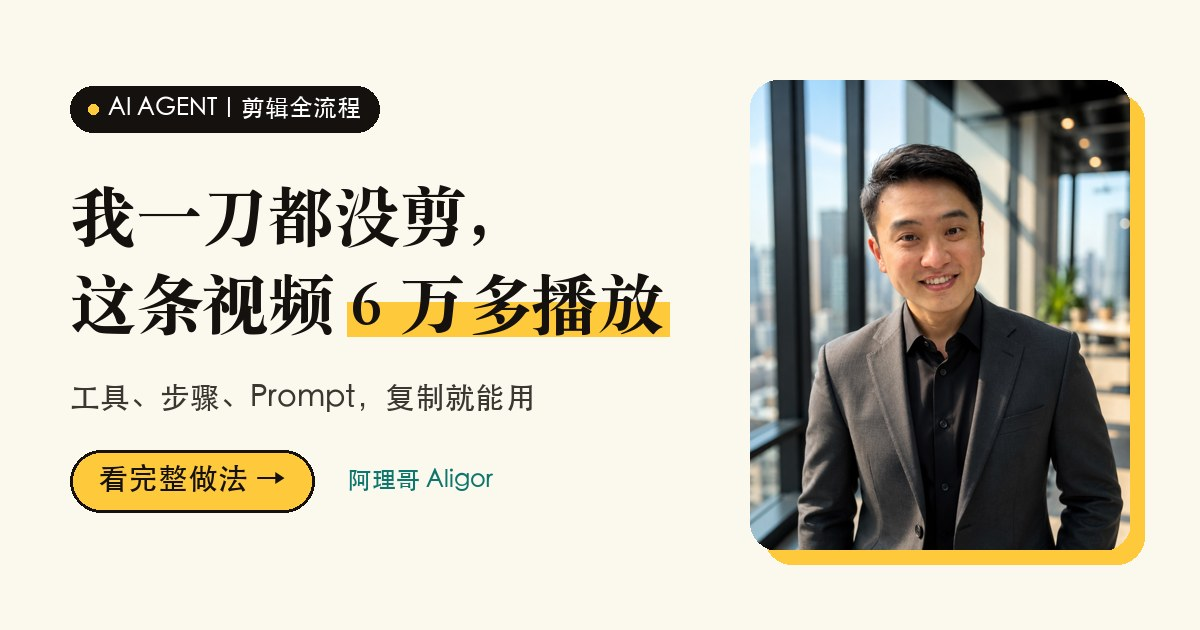
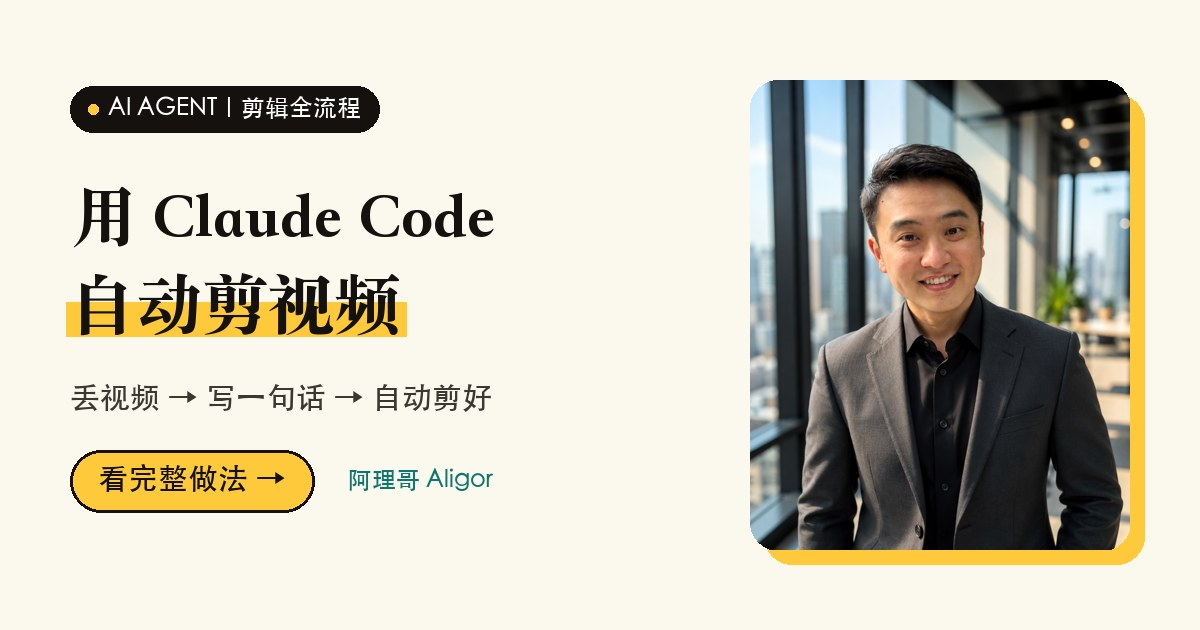
/claude-videoedit/: motion demo, 3-step flow, Claude Pro note
- Header: animated Claude Code demo (drop video, type one line, auto edit) replaces the view-count headline and stats
- Between 01 and 02: left-to-right animated flow (skills, API key, wait 20 min) with a "fix and redo" loop
- Setup step 1 notes Claude Code needs Claude Pro or higher
- Share card updated to the new headline

Changed region(s): [[0.0308, 0.4222, 0.5858, 0.5429], [0.0617, 0.3016, 0.4317, 0.3921], [0.0617, 0.6032, 0.4625, 0.6635]]

diff --git a/claude-videoedit/index.html b/claude-videoedit/index.html
@@ -71,6 +71,98 @@
   .cta h2 { justify-content: center; color: #fff; }
   .cta a { display: inline-block; margin-top: 12px; background: #fff; color: var(--rose); font-weight: 800; text-decoration: none; padding: 12px 22px; border-radius: 999px; }
   footer { margin-top: 30px; text-align: center; color: var(--muted); font-size: 13px; }
+
+  /* ---- motion demo ---- */
+  .demo { margin: 26px 0 10px; background: var(--code); color: var(--codeink); border-radius: 22px; overflow: hidden; box-shadow: 0 18px 40px -22px rgba(43,29,26,.55); }
+  .demo-bar { display: flex; align-items: center; gap: 7px; padding: 11px 14px; background: #2a201c; }
+  .demo-bar i { width: 10px; height: 10px; border-radius: 50%; background: #4a3a33; }
+  .demo-app { margin-left: 8px; display: inline-flex; align-items: center; gap: 7px; font-size: 13px; color: #f3d9cb; font-weight: 600; }
+  .demo-app svg { width: 16px; height: 16px; }
+  .demo-body { padding: 16px; display: grid; gap: 12px; min-height: 278px; align-content: start; }
+  .drop { position: relative; height: 64px; border: 1.5px dashed #6a544b; border-radius: 14px; display: flex; align-items: center; justify-content: center; }
+  .drop-hint { font-size: 13px; color: #a8928a; transition: opacity .3s; }
+  .file { position: absolute; left: 10px; right: 10px; top: 9px; height: 44px; display: flex; align-items: center; gap: 10px; padding: 0 12px; border-radius: 11px; background: #3a2b25; border: 1px solid #5c463d; transition: transform .9s cubic-bezier(.2,.75,.25,1), opacity .5s; }
+  .file-thumb { flex: none; width: 30px; height: 30px; border-radius: 8px; background: var(--ig); color: #fff; display: grid; place-items: center; }
+  .file-thumb svg { width: 16px; height: 16px; }
+  .file-name { font-family: ui-monospace, "SF Mono", Menlo, Consolas, monospace; font-size: 14px; color: #fff; }
+  .file-size { margin-left: auto; font-size: 12px; color: #a8928a; }
+  .pointer { position: absolute; width: 22px; height: 22px; right: 22px; top: 30px; transition: transform .9s cubic-bezier(.2,.75,.25,1), opacity .4s; }
+  .ask { display: flex; align-items: flex-end; gap: 8px; min-height: 46px; padding: 10px 12px; border-radius: 12px; background: #2a201c; border: 1px solid #4a3a33; font-size: 15px; transition: border-color .3s; }
+  .caret { color: var(--peach); font-weight: 700; font-family: ui-monospace, "SF Mono", Menlo, Consolas, monospace; }
+  .txt { flex: 1; display: grid; }
+  .txt::after { content: attr(data-text); visibility: hidden; grid-area: 1 / 1; }
+  .typed { grid-area: 1 / 1; color: #fff; }
+  .cursor { width: 2px; height: 18px; background: var(--peach); animation: blink 1s steps(2) infinite; }
+  .work { display: grid; gap: 8px; }
+  .log { list-style: none; display: grid; gap: 6px; font-size: 14px; }
+  .log li { display: flex; align-items: center; gap: 8px; color: #e9d2c6; opacity: 0; transform: translateY(6px); transition: opacity .4s, transform .4s; }
+  .log li::before { content: "✓"; flex: none; width: 18px; height: 18px; border-radius: 50%; background: var(--sage); color: #fff; font-size: 11px; font-weight: 700; display: grid; place-items: center; }
+  .log li:nth-child(2) { transition-delay: .7s; } .log li:nth-child(3) { transition-delay: 1.4s; }
+  .bar { height: 6px; border-radius: 99px; background: #3a2b25; overflow: hidden; opacity: 0; transition: opacity .3s; }
+  .bar i { display: block; height: 100%; width: 100%; background: var(--ig); transform: scaleX(0); transform-origin: left; transition: transform 2.4s linear; }
+  .done { justify-self: start; font-weight: 700; font-size: 14px; color: #1f1714; background: var(--peach); padding: 5px 12px; border-radius: 999px; opacity: 0; transform: scale(.92); transition: opacity .35s, transform .35s; }
+  .demo-steps { list-style: none; display: grid; grid-template-columns: repeat(3, 1fr); border-top: 1px solid #3a2b25; }
+  .demo-steps li { display: flex; align-items: center; justify-content: center; gap: 7px; padding: 12px 6px; font-size: 14px; color: #a8928a; transition: color .3s, background .3s; }
+  .demo-steps li + li { border-left: 1px solid #3a2b25; }
+  .demo-steps b { width: 22px; height: 22px; border-radius: 50%; display: grid; place-items: center; font-size: 12px; background: #3a2b25; color: #e9d2c6; transition: background .3s; }
+  /* stages: 0 empty · 1 video dropped · 2 typing · 3 editing · 4 done */
+  .demo[data-stage="0"] .file { opacity: 0; transform: translate(60px, -46px) scale(.9); }
+  .demo[data-stage="0"] .pointer { opacity: 0; transform: translate(40px, -40px); }
+  .demo:not([data-stage="0"]) .drop-hint { opacity: 0; }
+  .demo:not([data-stage="0"]):not([data-stage="1"]) .pointer { opacity: 0; }
+  .demo[data-stage="0"] .ask .cursor, .demo[data-stage="1"] .ask .cursor { opacity: 0; }
+  .demo[data-stage="2"] .ask { border-color: var(--peach); }
+  .demo[data-stage="3"] .log li, .demo[data-stage="4"] .log li { opacity: 1; transform: none; }
+  .demo[data-stage="3"] .bar, .demo[data-stage="4"] .bar { opacity: 1; }
+  .demo[data-stage="3"] .bar i, .demo[data-stage="4"] .bar i { transform: scaleX(1); }
+  .demo[data-stage="4"] .done { opacity: 1; transform: none; }
+  .demo[data-stage="4"] .ask .cursor { opacity: 0; }
+  .demo[data-stage="1"] .demo-steps [data-s="1"], .demo[data-stage="2"] .demo-steps [data-s="2"], .demo[data-stage="3"] .demo-steps [data-s="3"], .demo[data-stage="4"] .demo-steps [data-s="3"] { color: #fff; background: #2a201c; }
+  .demo[data-stage="1"] .demo-steps [data-s="1"] b, .demo[data-stage="2"] .demo-steps [data-s="2"] b, .demo[data-stage="3"] .demo-steps [data-s="3"] b, .demo[data-stage="4"] .demo-steps [data-s="3"] b { background: var(--coral); color: #fff; }
+  @keyframes blink { 50% { opacity: 0; } }
+
+  /* ---- flow chart ---- */
+  .flow-n { background: var(--plum); }
+  .flow-n svg { width: 22px; height: 22px; color: #fff; }
+  .hf { margin: 6px 0 4px; background: var(--card); border: 1px solid var(--line); border-radius: 22px; padding: 16px 14px 14px; }
+  .hf-tags { display: grid; grid-template-columns: 2fr 1fr; gap: 10px; margin-bottom: 10px; font-size: 12px; font-weight: 700; letter-spacing: .1em; color: var(--muted); text-align: center; }
+  .hf-tags span { border-bottom: 2px solid var(--line); padding-bottom: 4px; }
+  .hf-tags .t-each { border-color: #f6c8b6; color: var(--coral); }
+  .hf-row { display: grid; grid-template-columns: 1fr 22px 1fr 22px 1fr; align-items: center; }
+  .hf-node { align-self: stretch; position: relative; display: grid; justify-items: center; text-align: center; gap: 4px; padding: 12px 6px 10px; border-radius: 16px; border: 1.5px solid var(--line); background: #fffaf6; align-content: start; }
+  .hf-ic { width: 42px; height: 42px; border-radius: 13px; background: #fff; border: 1px solid var(--line); display: grid; place-items: center; margin-bottom: 4px; }
+  .hf-ic svg { width: 24px; height: 24px; }
+  .hf-ic.clock { color: var(--coral); }
+  .hf-node b { font-size: 15px; line-height: 1.3; }
+  .hf-node small { font-size: 12px; line-height: 1.45; color: var(--muted); }
+  .hf-prog { width: 80%; height: 5px; border-radius: 99px; background: #f3e3d8; overflow: hidden; margin-top: 4px; }
+  .hf-prog i { display: block; height: 100%; width: 100%; background: var(--ig); transform: scaleX(1); transform-origin: left; }
+  .hf-ok { font-size: 12px; font-weight: 700; color: var(--sage); }
+  .hf-link { position: relative; height: 2px; background: #ead2c4; }
+  .hf-link::after { content: ""; position: absolute; right: -1px; top: -4px; border: 5px solid transparent; border-left: 6px solid #ead2c4; border-right: 0; }
+  .hf-link i { position: absolute; left: 0; top: -3px; width: 8px; height: 8px; border-radius: 50%; background: var(--coral); box-shadow: 0 0 0 3px rgba(255,107,74,.25); opacity: 0; }
+  .hf-loop { display: flex; justify-content: flex-end; margin-top: 12px; }
+  .hf-loop-in { position: relative; display: inline-flex; align-items: center; gap: 6px; font-size: 13px; font-weight: 600; color: var(--plum); background: #f6eefc; border: 1.5px dashed #c9a6e6; border-radius: 12px; padding: 7px 11px; }
+  .hf-loop-in::before { content: ""; position: absolute; right: 16%; top: -14px; height: 12px; border-left: 2px dashed #c9a6e6; }
+  .hf-loop-in svg { width: 15px; height: 15px; flex: none; }
+  /* 7s loop: step 1 lights → dot runs → step 2 → dot runs → step 3 fills (the 20 minutes) → done → the "fix again" hint pulses */
+  .hf .n1 { animation: hfN1 7s infinite; } .hf .n2 { animation: hfN2 7s infinite; } .hf .n3 { animation: hfN3 7s infinite; }
+  .hf .l1 i { animation: hfD1 7s infinite; } .hf .l2 i { animation: hfD2 7s infinite; }
+  .hf .hf-prog i { animation: hfP 7s infinite; } .hf .hf-ok { animation: hfOk 7s infinite; } .hf .hf-loop-in { animation: hfLoop 7s infinite; }
+  @keyframes hfN1 { 0%, 92% { border-color: var(--coral); box-shadow: 0 0 0 4px rgba(255,107,74,.12); } 96%, 100% { border-color: var(--line); box-shadow: none; } }
+  @keyframes hfN2 { 0%, 22% { border-color: var(--line); box-shadow: none; } 25%, 92% { border-color: var(--coral); box-shadow: 0 0 0 4px rgba(255,107,74,.12); } 96%, 100% { border-color: var(--line); box-shadow: none; } }
+  @keyframes hfN3 { 0%, 45% { border-color: var(--line); box-shadow: none; } 48%, 92% { border-color: var(--coral); box-shadow: 0 0 0 4px rgba(255,107,74,.12); } 96%, 100% { border-color: var(--line); box-shadow: none; } }
+  @keyframes hfD1 { 0%, 8% { left: 0; opacity: 0; } 10% { opacity: 1; } 21% { left: calc(100% - 8px); opacity: 1; } 24%, 100% { left: calc(100% - 8px); opacity: 0; } }
+  @keyframes hfD2 { 0%, 31% { left: 0; opacity: 0; } 33% { opacity: 1; } 44% { left: calc(100% - 8px); opacity: 1; } 47%, 100% { left: calc(100% - 8px); opacity: 0; } }
+  @keyframes hfP { 0%, 48% { transform: scaleX(0); } 78%, 94% { transform: scaleX(1); } 98%, 100% { transform: scaleX(0); } }
+  @keyframes hfOk { 0%, 78% { opacity: 0; } 81%, 93% { opacity: 1; } 97%, 100% { opacity: 0; } }
+  @keyframes hfLoop { 0%, 82% { transform: none; } 85% { transform: translateY(-3px); } 88% { transform: none; } 91% { transform: translateY(-3px); } 94%, 100% { transform: none; } }
+  @media (max-width: 420px) { .hf { padding: 14px 10px 12px; } .hf-row { grid-template-columns: 1fr 14px 1fr 14px 1fr; } .hf-node { padding: 10px 4px 9px; } .hf-node b { font-size: 14px; } .hf-node small { font-size: 11.5px; } .hf-loop-in { font-size: 12px; } }
+  @media (prefers-reduced-motion: reduce) { .hf * , .hf .hf-node { animation: none !important; } .hf-ok { opacity: 1; } }
+  .pro { display: block; margin-top: 6px; font-size: 14px; background: #f1e6fa; color: var(--plum); border-radius: 10px; padding: 6px 10px; font-weight: 600; }
+  @media (prefers-reduced-motion: reduce) {
+    .demo *, .demo *::before { transition: none !important; animation: none !important; }
+  }
 </style>
 </head>
 <body>
@@ -78,14 +170,32 @@
 
 <header>
   <span class="pill">AI AGENT · 剪辑全流程</span>
-  <h1>我一刀都没剪，<br>这条视频 <span class="g">6 万多播放</span></h1>
+  <h1>用 Claude Code<br><span class="g">自动剪视频</span></h1>
   <p class="lead">这是我用 AI Agent 剪 Instagram 短视频的完整做法：用什么工具、一步一步怎么做、我在用的 Prompt。照着做，你也可以让 AI 帮你剪。</p>
-  <div class="stats">
-    <div class="stat big"><b>61,887</b><span>次播放（@ukunili「RM50 吉他带回家」Reel 后台数据）</span></div>
-    <div class="stat"><b>1,730</b><span>次分享</span></div>
-    <div class="stat"><b>1,361</b><span>个赞</span></div>
-    <div class="stat"><b>218</b><span>次收藏</span></div>
-    <div class="stat"><b>+139</b><span>个新粉丝</span></div>
+  <div class="demo" id="demo" data-stage="4" role="img" aria-label="动画示意：把视频丢进 Claude Code，写一句话说明怎么剪，它就自动剪好">
+    <div class="demo-bar"><i></i><i></i><i></i><span class="demo-app"><svg viewBox="0 0 24 24" aria-hidden="true"><path fill="#D97757" d="m4.7144 15.9555 4.7174-2.6471.079-.2307-.079-.1275h-.2307l-.7893-.0486-2.6956-.0729-2.3375-.0971-2.2646-.1214-.5707-.1215-.5343-.7042.0546-.3522.4797-.3218.686.0608 1.5179.1032 2.2767.1578 1.6514.0972 2.4468.255h.3886l.0546-.1579-.1336-.0971-.1032-.0972L6.973 9.8356l-2.55-1.6879-1.3356-.9714-.7225-.4918-.3643-.4614-.1578-1.0078.6557-.7225.8803.0607.2246.0607.8925.686 1.9064 1.4754 2.4893 1.8336.3643.3035.1457-.1032.0182-.0728-.164-.2733-1.3539-2.4467-1.445-2.4893-.6435-1.032-.17-.6194c-.0607-.255-.1032-.4674-.1032-.7285L6.287.1335 6.6997 0l.9957.1336.419.3642.6192 1.4147 1.0018 2.2282 1.5543 3.0296.4553.8985.2429.8318.091.255h.1579v-.1457l.1275-1.706.2368-2.0947.2307-2.6957.0789-.7589.3764-.9107.7468-.4918.5828.2793.4797.686-.0668.4433-.2853 1.8517-.5586 2.9021-.3643 1.9429h.2125l.2429-.2429.9835-1.3053 1.6514-2.0643.7286-.8196.85-.9046.5464-.4311h1.0321l.759 1.1293-.34 1.1657-1.0625 1.3478-.8804 1.1414-1.2628 1.7-.7893 1.36.0729.1093.1882-.0183 2.8535-.607 1.5421-.2794 1.8396-.3157.8318.3886.091.3946-.3278.8075-1.967.4857-2.3072.4614-3.4364.8136-.0425.0304.0486.0607 1.5482.1457.6618.0364h1.621l3.0175.2247.7892.522.4736.6376-.079.4857-1.2142.6193-1.6393-.3886-3.825-.9107-1.3113-.3279h-.1822v.1093l1.0929 1.0686 2.0035 1.8092 2.5075 2.3314.1275.5768-.3218.4554-.34-.0486-2.2039-1.6575-.85-.7468-1.9246-1.621h-.1275v.17l.4432.6496 2.3436 3.5214.1214 1.0807-.17.3521-.6071.2125-.6679-.1214-1.3721-1.9246L14.38 17.959l-1.1414-1.9428-.1397.079-.674 7.2552-.3156.3703-.7286.2793-.6071-.4614-.3218-.7468.3218-1.4753.3886-1.9246.3157-1.53.2853-1.9004.17-.6314-.0121-.0425-.1397.0182-1.4328 1.9672-2.1796 2.9446-1.7243 1.8456-.4128.164-.7164-.3704.0667-.6618.4008-.5889 2.386-3.0357 1.4389-1.882.929-1.0868-.0062-.1579h-.0546l-6.3385 4.1164-1.1293.1457-.4857-.4554.0608-.7467.2307-.2429 1.9064-1.3114Z"/></svg>Claude Code</span></div>
+    <div class="demo-body">
+      <div class="drop">
+        <span class="drop-hint">把视频拖进来</span>
+        <div class="file"><span class="file-thumb"><svg viewBox="0 0 24 24" aria-hidden="true"><path d="M9 7.5v9l7.5-4.5z" fill="currentColor"/></svg></span><span class="file-name">IMG_2041.MOV</span><span class="file-size">竖屏 · 1:42</span></div>
+        <svg class="pointer" viewBox="0 0 24 24" aria-hidden="true"><path d="M5 3l14 8.5-6.2 1.3L9.6 19z" fill="#fff" stroke="#1f1714" stroke-width="1.4" stroke-linejoin="round"/></svg>
+      </div>
+      <div class="ask"><span class="caret">&gt;</span><span class="txt" data-text="帮我剪成 IG 短视频：剪掉卡顿，加字幕和动画"><span class="typed" data-text="帮我剪成 IG 短视频：剪掉卡顿，加字幕和动画">帮我剪成 IG 短视频：剪掉卡顿，加字幕和动画</span></span><span class="cursor"></span></div>
+      <div class="work">
+        <ul class="log">
+          <li>转写语音、对好字幕时间</li>
+          <li>剪掉卡顿和停顿</li>
+          <li>加上字幕、logo 和动画</li>
+        </ul>
+        <div class="bar"><i></i></div>
+        <div class="done">✓ 已剪好，导出 1080×1920</div>
+      </div>
+    </div>
+    <ol class="demo-steps">
+      <li data-s="1"><b>1</b>丢视频进去</li>
+      <li data-s="2"><b>2</b>写一句话</li>
+      <li data-s="3"><b>3</b>自动剪好</li>
+    </ol>
   </div>
   <p class="note">人工剪一条这样的视频，可能要花一整天；交给 AI，大概 20 分钟。</p>
 </header>
@@ -93,6 +203,7 @@
 <nav class="toc">
   <b>目录</b>
   <a href="#tools"><span>01</span>需要准备的工具</a>
+  <a href="#flow"><span>↓</span>一张图看懂整个流程</a>
   <a href="#setup"><span>02</span>第一次设置（只做一次）</a>
   <a href="#shoot"><span>03</span>录视频的小技巧</a>
   <a href="#prompt"><span>04</span>丢给 AI：我的 Prompt</a>
@@ -110,10 +221,25 @@
   <div class="card tool"><div class="ic"><svg viewBox="0 0 24 24" aria-hidden="true"><path fill="#000000" d="M12.152 6.896c-.948 0-2.415-1.078-3.96-1.04-2.04.027-3.91 1.183-4.961 3.014-2.117 3.675-.546 9.103 1.519 12.09 1.013 1.454 2.208 3.09 3.792 3.039 1.52-.065 2.09-.987 3.935-.987 1.831 0 2.35.987 3.96.948 1.637-.026 2.676-1.48 3.676-2.948 1.156-1.688 1.636-3.325 1.662-3.415-.039-.013-3.182-1.221-3.22-4.857-.026-3.04 2.48-4.494 2.597-4.559-1.429-2.09-3.623-2.324-4.39-2.376-2-.156-3.675 1.09-4.61 1.09zM15.53 3.83c.843-1.012 1.4-2.427 1.245-3.83-1.207.052-2.662.805-3.532 1.818-.78.896-1.454 2.338-1.273 3.714 1.338.104 2.715-.688 3.559-1.701"/></svg></div><div><b>一台电脑（我用 Mac）</b><small>视频在你自己的电脑上做，素材不用上传到别人的平台。</small></div></div>
 </section>
 
+<section id="flow">
+  <h2><span class="n flow-n" aria-hidden="true"><svg viewBox="0 0 24 24"><path d="M6 4v6a4 4 0 0 0 4 4h8M14 10l4 4-4 4" fill="none" stroke="currentColor" stroke-width="2.2" stroke-linecap="round" stroke-linejoin="round"/></svg></span>一张图看懂整个流程</h2>
+  <div class="hf" role="img" aria-label="流程：1 在 Claude Code 下载两个 skill，2 输入 ElevenLabs API Key，3 丢视频给它剪，等大约 20 分钟。有问题就跟它讲，回到第 3 步再改。">
+    <div class="hf-tags"><span class="t-once">只做一次</span><span class="t-each">每条视频</span></div>
+    <div class="hf-row">
+      <div class="hf-node n1"><span class="hf-ic"><svg viewBox="0 0 24 24" aria-hidden="true"><path fill="#D97757" d="m4.7144 15.9555 4.7174-2.6471.079-.2307-.079-.1275h-.2307l-.7893-.0486-2.6956-.0729-2.3375-.0971-2.2646-.1214-.5707-.1215-.5343-.7042.0546-.3522.4797-.3218.686.0608 1.5179.1032 2.2767.1578 1.6514.0972 2.4468.255h.3886l.0546-.1579-.1336-.0971-.1032-.0972L6.973 9.8356l-2.55-1.6879-1.3356-.9714-.7225-.4918-.3643-.4614-.1578-1.0078.6557-.7225.8803.0607.2246.0607.8925.686 1.9064 1.4754 2.4893 1.8336.3643.3035.1457-.1032.0182-.0728-.164-.2733-1.3539-2.4467-1.445-2.4893-.6435-1.032-.17-.6194c-.0607-.255-.1032-.4674-.1032-.7285L6.287.1335 6.6997 0l.9957.1336.419.3642.6192 1.4147 1.0018 2.2282 1.5543 3.0296.4553.8985.2429.8318.091.255h.1579v-.1457l.1275-1.706.2368-2.0947.2307-2.6957.0789-.7589.3764-.9107.7468-.4918.5828.2793.4797.686-.0668.4433-.2853 1.8517-.5586 2.9021-.3643 1.9429h.2125l.2429-.2429.9835-1.3053 1.6514-2.0643.7286-.8196.85-.9046.5464-.4311h1.0321l.759 1.1293-.34 1.1657-1.0625 1.3478-.8804 1.1414-1.2628 1.7-.7893 1.36.0729.1093.1882-.0183 2.8535-.607 1.5421-.2794 1.8396-.3157.8318.3886.091.3946-.3278.8075-1.967.4857-2.3072.4614-3.4364.8136-.0425.0304.0486.0607 1.5482.1457.6618.0364h1.621l3.0175.2247.7892.522.4736.6376-.079.4857-1.2142.6193-1.6393-.3886-3.825-.9107-1.3113-.3279h-.1822v.1093l1.0929 1.0686 2.0035 1.8092 2.5075 2.3314.1275.5768-.3218.4554-.34-.0486-2.2039-1.6575-.85-.7468-1.9246-1.621h-.1275v.17l.4432.6496 2.3436 3.5214.1214 1.0807-.17.3521-.6071.2125-.6679-.1214-1.3721-1.9246L14.38 17.959l-1.1414-1.9428-.1397.079-.674 7.2552-.3156.3703-.7286.2793-.6071-.4614-.3218-.7468.3218-1.4753.3886-1.9246.3157-1.53.2853-1.9004.17-.6314-.0121-.0425-.1397.0182-1.4328 1.9672-2.1796 2.9446-1.7243 1.8456-.4128.164-.7164-.3704.0667-.6618.4008-.5889 2.386-3.0357 1.4389-1.882.929-1.0868-.0062-.1579h-.0546l-6.3385 4.1164-1.1293.1457-.4857-.4554.0608-.7467.2307-.2429 1.9064-1.3114Z"/></svg></span><b>下载 2 个 Skill</b><small>HyperFrames + video-use</small></div>
+      <div class="hf-link l1"><i></i></div>
+      <div class="hf-node n2"><span class="hf-ic"><svg viewBox="0 0 24 24" aria-hidden="true"><path fill="#000000" d="M4.6035 0v24h4.9317V0zm9.8613 0v24h4.9317V0z"/></svg></span><b>输入 API Key</b><small>ElevenLabs，用来转写字幕</small></div>
+      <div class="hf-link l2"><i></i></div>
+      <div class="hf-node n3"><span class="hf-ic clock"><svg viewBox="0 0 24 24" aria-hidden="true"><circle cx="12" cy="12" r="8.5" fill="none" stroke="currentColor" stroke-width="2"/><path d="M12 7.5V12l3 2" fill="none" stroke="currentColor" stroke-width="2" stroke-linecap="round"/></svg></span><b>丢视频，等 20 分钟</b><small>它自己剪好</small><span class="hf-prog"><i></i></span><span class="hf-ok">✓ 剪好了</span></div>
+    </div>
+    <div class="hf-loop"><span class="hf-loop-in"><svg viewBox="0 0 24 24" aria-hidden="true"><path d="M20 12a8 8 0 1 1-2.3-5.7M20 4v5h-5" fill="none" stroke="currentColor" stroke-width="2.2" stroke-linecap="round" stroke-linejoin="round"/></svg>有问题？跟它讲哪里要改，回到第 3 步再改</span></div>
+  </div>
+</section>
+
 <section id="setup">
   <h2><span class="n">02</span>第一次设置（只做一次）</h2>
   <ol class="steps">
-    <li>安装 Claude Code（Claude 桌面版或终端版都可以），登录你的账号。</li>
+    <li>安装 Claude Code（Claude 桌面版或终端版都可以），登录你的账号。<span class="pro">需要 Claude Pro 或以上的付费方案，免费版不能用 Claude Code。</span></li>
     <li>在 Claude Code 里直接跟它说：<code>帮我安装 HyperFrames 和 video-use 这两个 skill</code>。它会自己处理安装。</li>
     <li>去 <b>elevenlabs.io → API Keys</b> 建一个 key（<code>sk_</code> 开头）。</li>
     <li>把 key 设成电脑的环境变量，名字一定要是 <code>ELEVENLABS_API_KEY</code>：</li>
@@ -226,6 +352,29 @@ export ELEVENLABS_API_KEY="sk_你的key"</pre>
       catch (e) { b.textContent = "请长按复制"; }
     });
   });
+</script>
+<script>
+  // Motion demo: drop a video in → type one line → auto edit → done, then loop. Reduced-motion visitors see the finished frame.
+  (function () {
+    var demo = document.getElementById("demo"); if (!demo) return;
+    if (window.matchMedia && matchMedia("(prefers-reduced-motion: reduce)").matches) return;
+    var typed = demo.querySelector(".typed"), text = typed.getAttribute("data-text"), timers = [];
+    function at(ms, fn) { timers.push(setTimeout(fn, ms)); }
+    function stage(n) { demo.setAttribute("data-stage", n); }
+    function run() {
+      timers.forEach(clearTimeout); timers = [];
+      typed.textContent = ""; stage(0);
+      at(500, function () { stage(1); });
+      at(2100, function () { stage(2); });
+      var chars = Array.from(text);
+      chars.forEach(function (c, i) { at(2400 + i * 85, function () { typed.textContent += c; }); });
+      var typedAt = 2400 + chars.length * 85;
+      at(typedAt + 450, function () { stage(3); });
+      at(typedAt + 3500, function () { stage(4); });
+      at(typedAt + 6500, run);
+    }
+    run();
+  })();
 </script>
 </body>
 </html>
